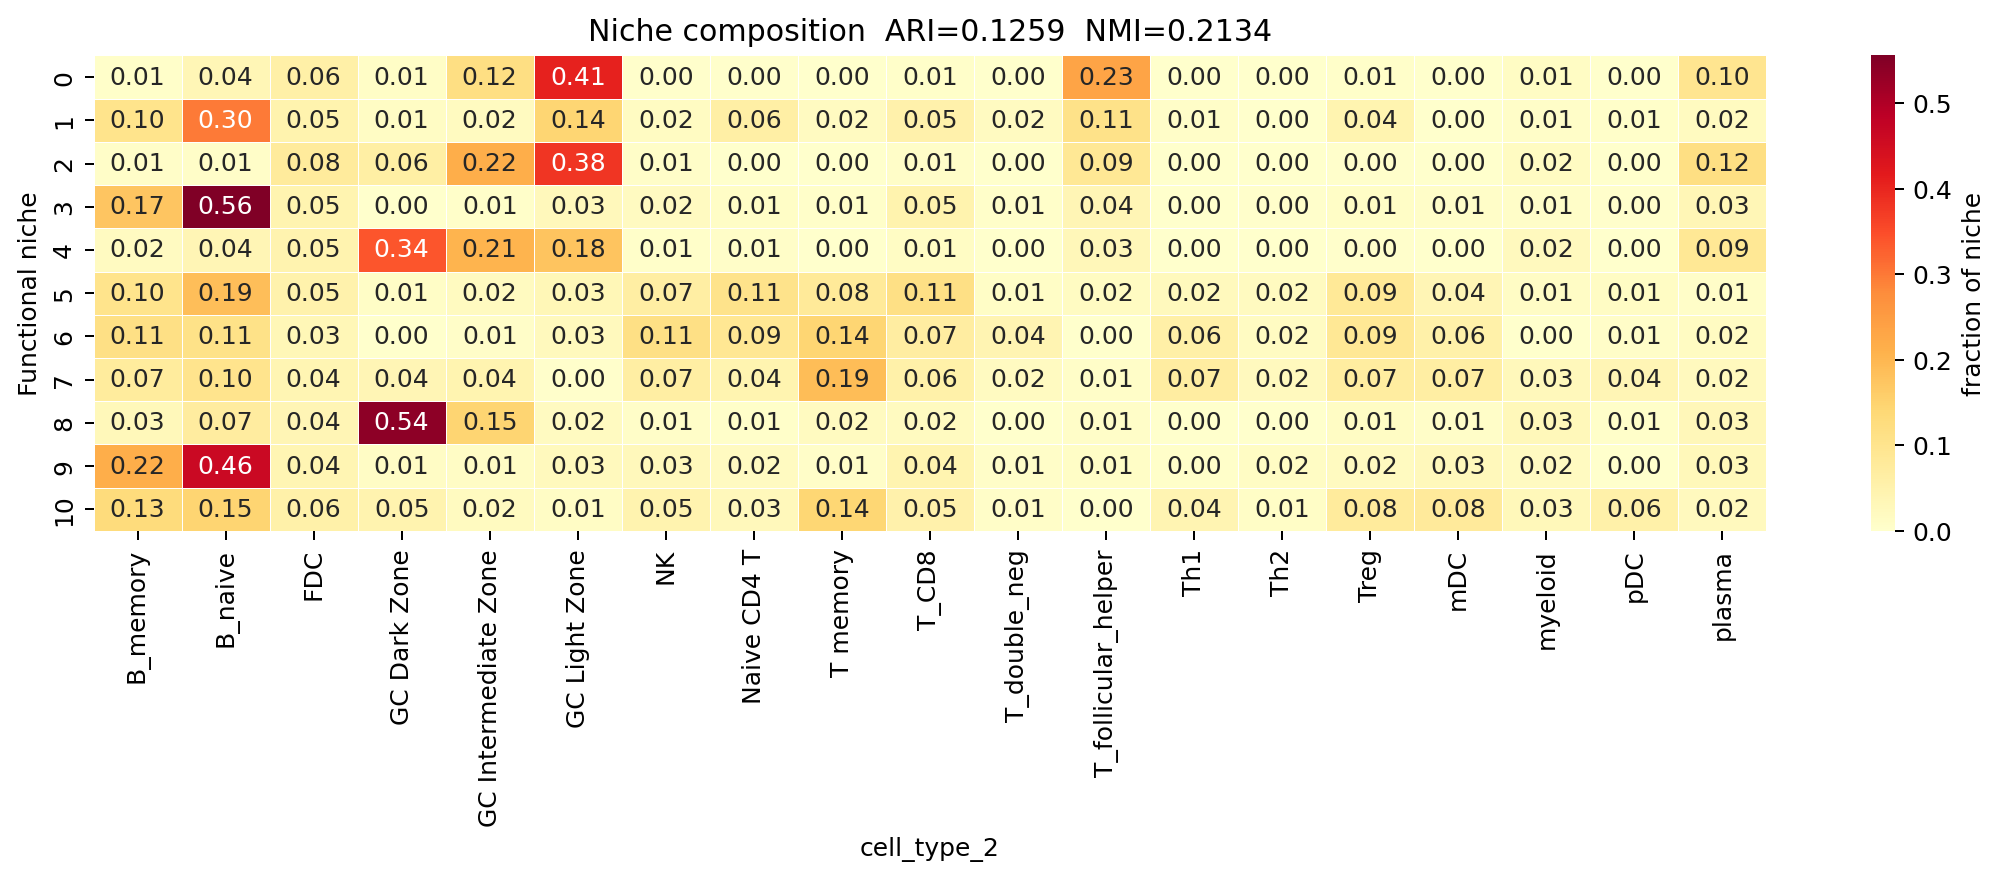
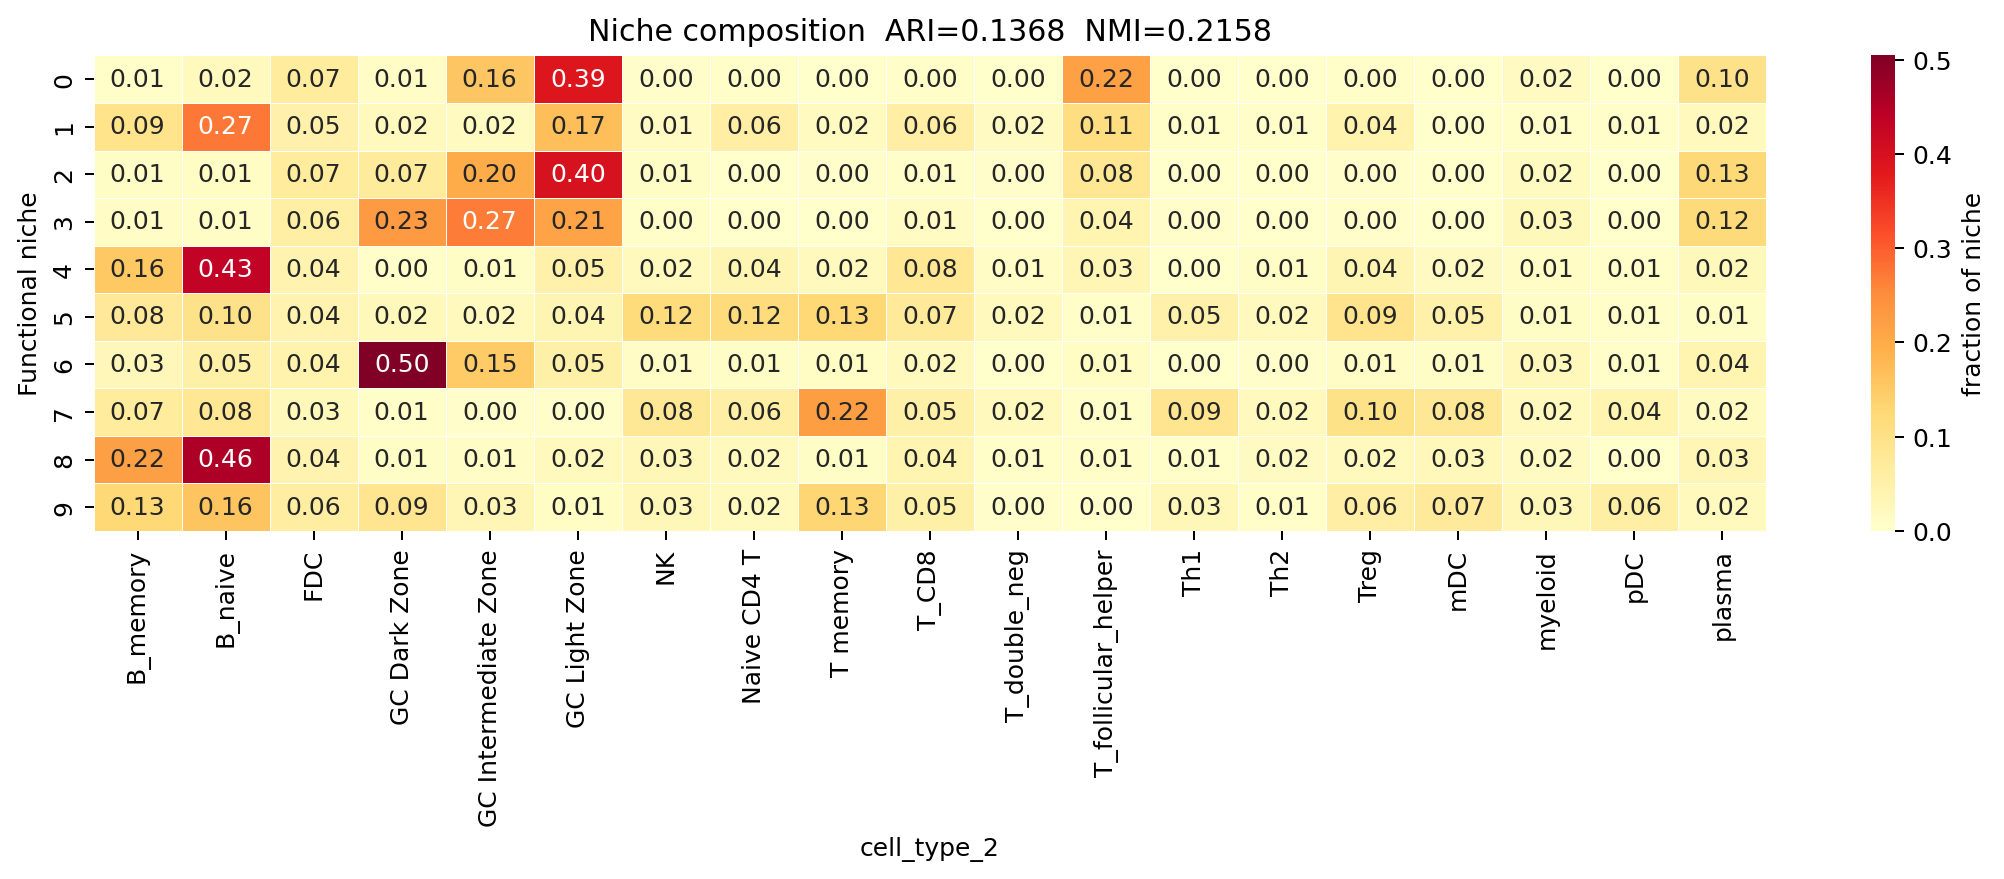
feat: expand to 31 GC-biology target genes
Gene list (31 genes, covers full GC B cell program):
  Core TFs:     BCL6, AICDA, PAX5, IRF4, PRDM1, FOXO1, BACH2, MYBL1
  DZ/LZ:        CXCR4, CXCR5, SELL, CD83, CD86
  B-T signals:  IL21, IL7, IL7R, IL4, IL2RA, ICOS, PDCD1, CXCL13, LTB, LTB4R
  Selection:    FAS
  Cytokines:    IL6, IL6R
  Ag present:   CD74, HLA-DRA, HLA-DRB1
  Stromal:      CXCL12
  Plasma exit:  CD28

Results vs 7-gene model:
  Spearman(emb_dist, |Δtfh|) in GC B cells: r=0.735 (7-gene: 0.732)
  DZ/LZ AUROC (LZ sim to LZ centroid):       0.824
  DZ/LZ AUROC (DZ sim to DZ centroid):       0.882
  Per-niche Tfh gradient preserved:
    Niche 0: 237 LZ / 96 IZ / 7 DZ   (tfh=58, near-Tfh LZ)
    Niche 6: 34 LZ / 98 IZ / 331 DZ  (tfh=187, far-Tfh DZ)
    Niche 9: 7 LZ / 18 IZ / 49 DZ    (tfh=294, far DZ)

diff --git a/scripts/functional_niches/run_tonsil.py b/scripts/functional_niches/run_tonsil.py
@@ -46,8 +46,26 @@ warnings.filterwarnings("ignore")
 # ──────────────────────────────────────────────────────────────────
 FEATHER_DIR  = "/ix1/ylee/kor11/djishnu_kor11/tonsil_ablation/runs/tf_lr_tfl__full_2"
 H5AD_PATH    = "/ix1/ylee/kor11/djishnu_kor11/tonsil_ablation/snrna_human_tonsil.h5ad"
-OUT_DIR      = "/tmp/tonsil_func"
-TARGET_GENES = {"BCL6", "IL21", "IL7", "IL7R", "PAX5", "AICDA", "CXCR4"}
+OUT_DIR      = "/tmp/tonsil_func_31genes"
+TARGET_GENES = {
+    # Core GC B cell transcription factors
+    "BCL6", "AICDA", "PAX5", "IRF4", "PRDM1", "FOXO1", "BACH2", "MYBL1",
+    # DZ vs LZ markers
+    "CXCR4", "CXCR5", "SELL", "CD83", "CD86",
+    # B-T interaction / Tfh signals
+    "IL21", "IL7", "IL7R", "IL4", "IL2RA", "ICOS", "PDCD1",
+    "CXCL13", "LTB", "LTB4R",
+    # Apoptosis / selection signals
+    "FAS",
+    # Cytokines / niche signals
+    "IL6", "IL6R",
+    # MHC / Ag presentation (LZ function)
+    "CD74", "HLA-DRA", "HLA-DRB1",
+    # Stromal interaction
+    "CXCL12",
+    # Plasma cell exit
+    "CD28",
+}
 N_WORKERS    = 16
 # ──────────────────────────────────────────────────────────────────
 
